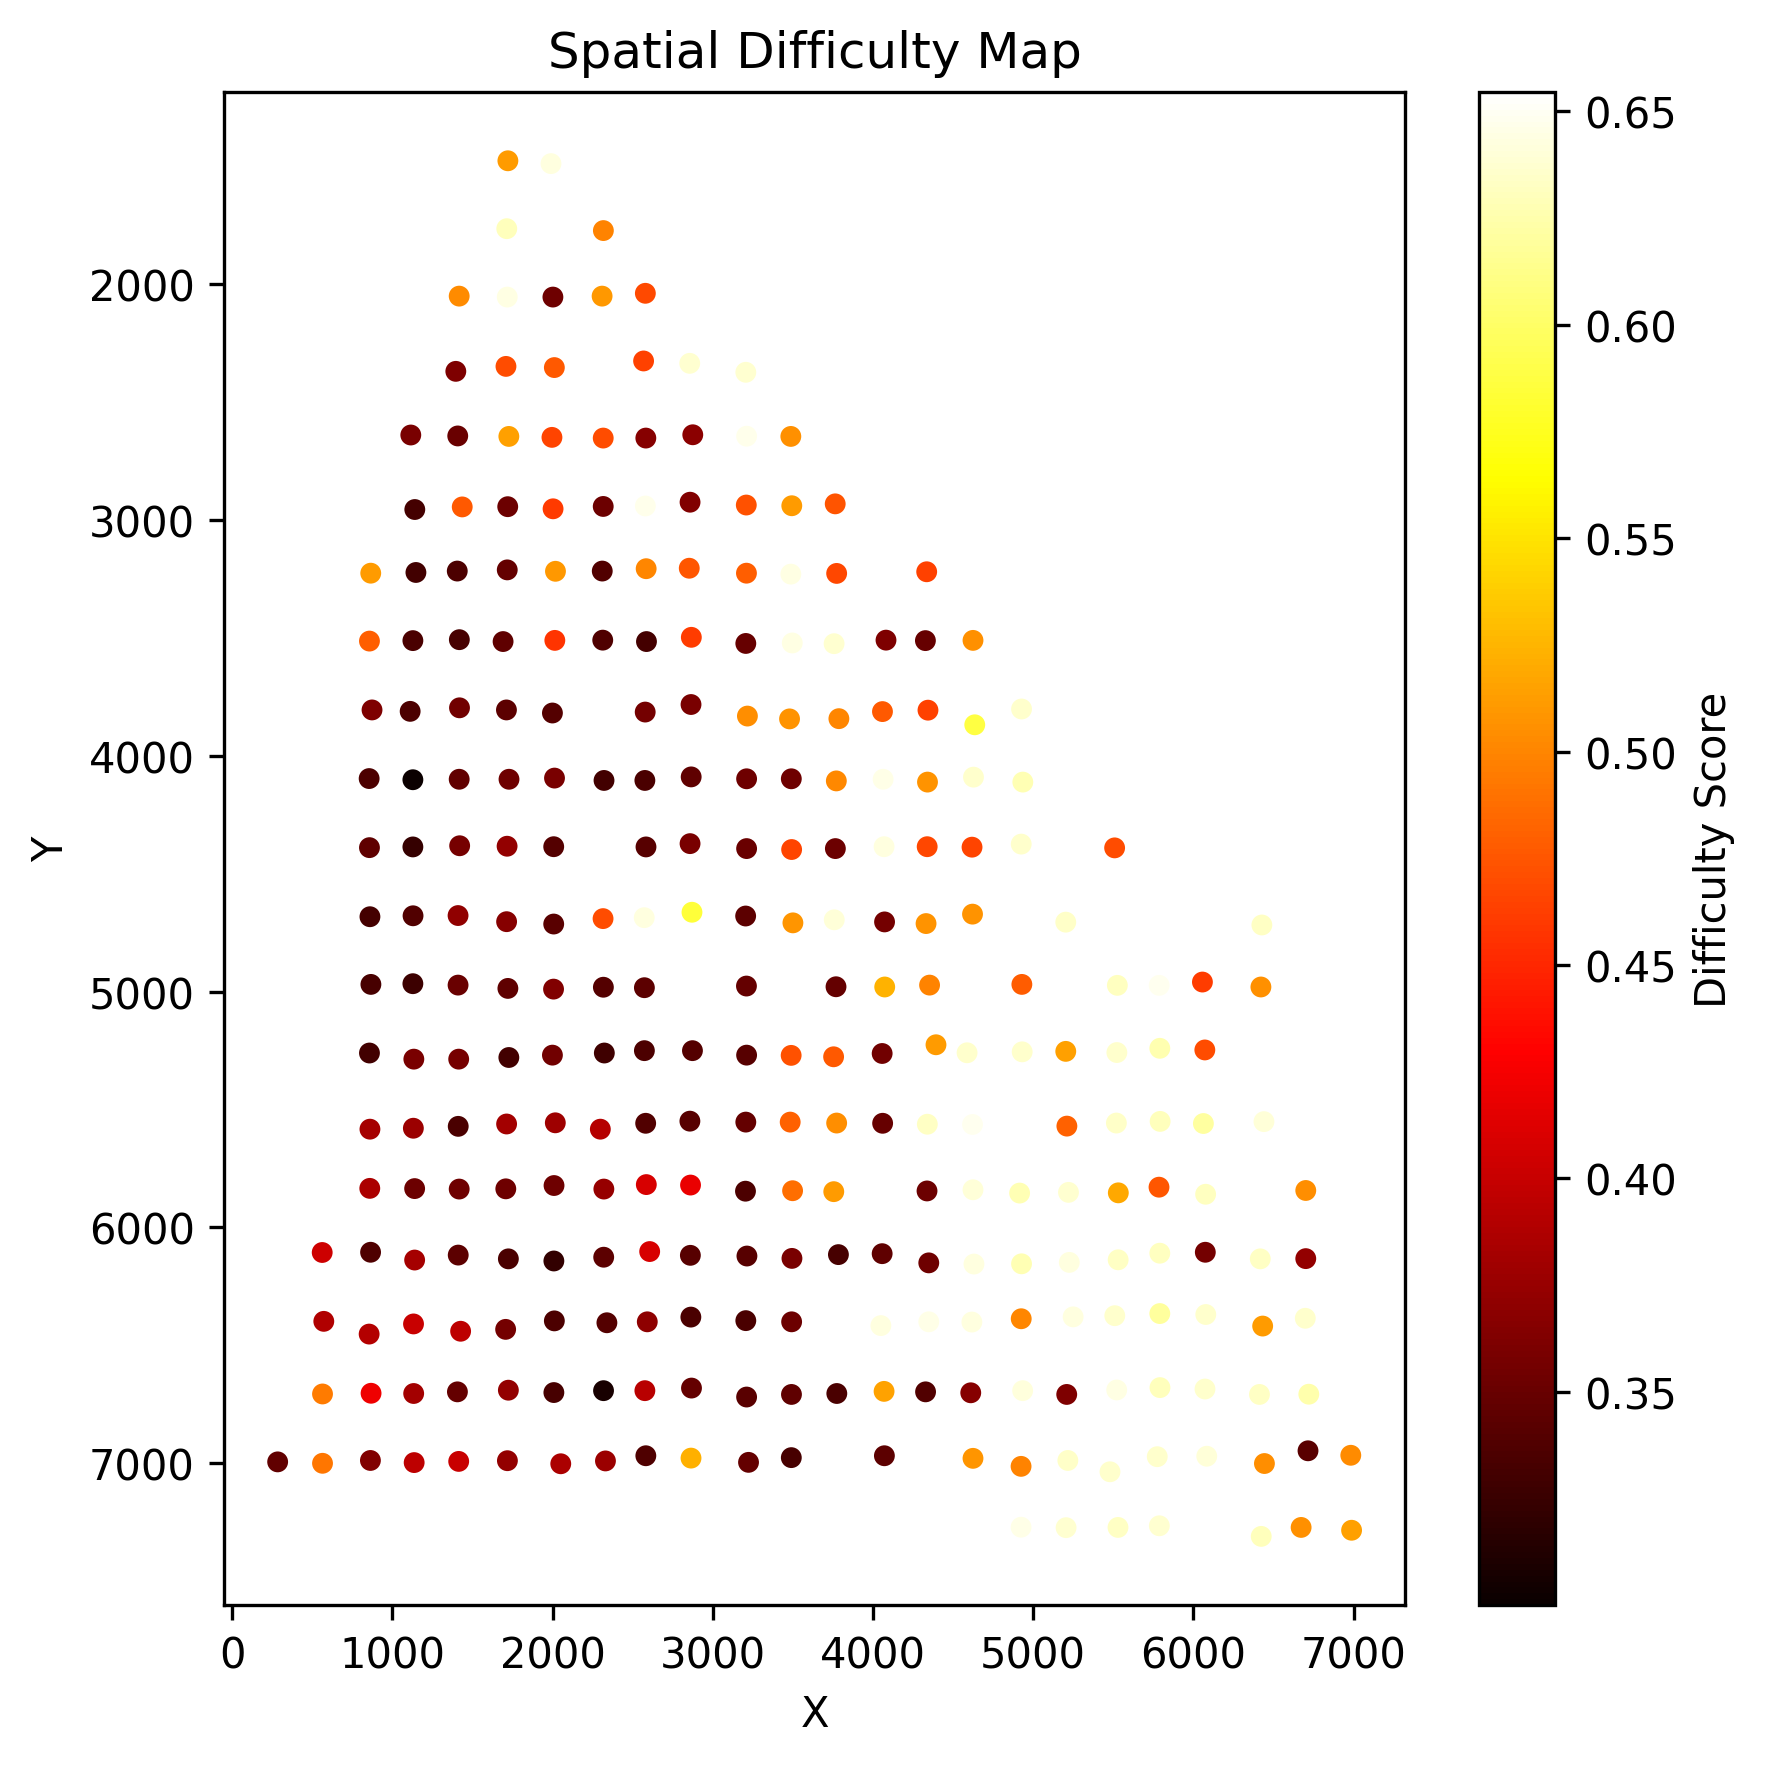
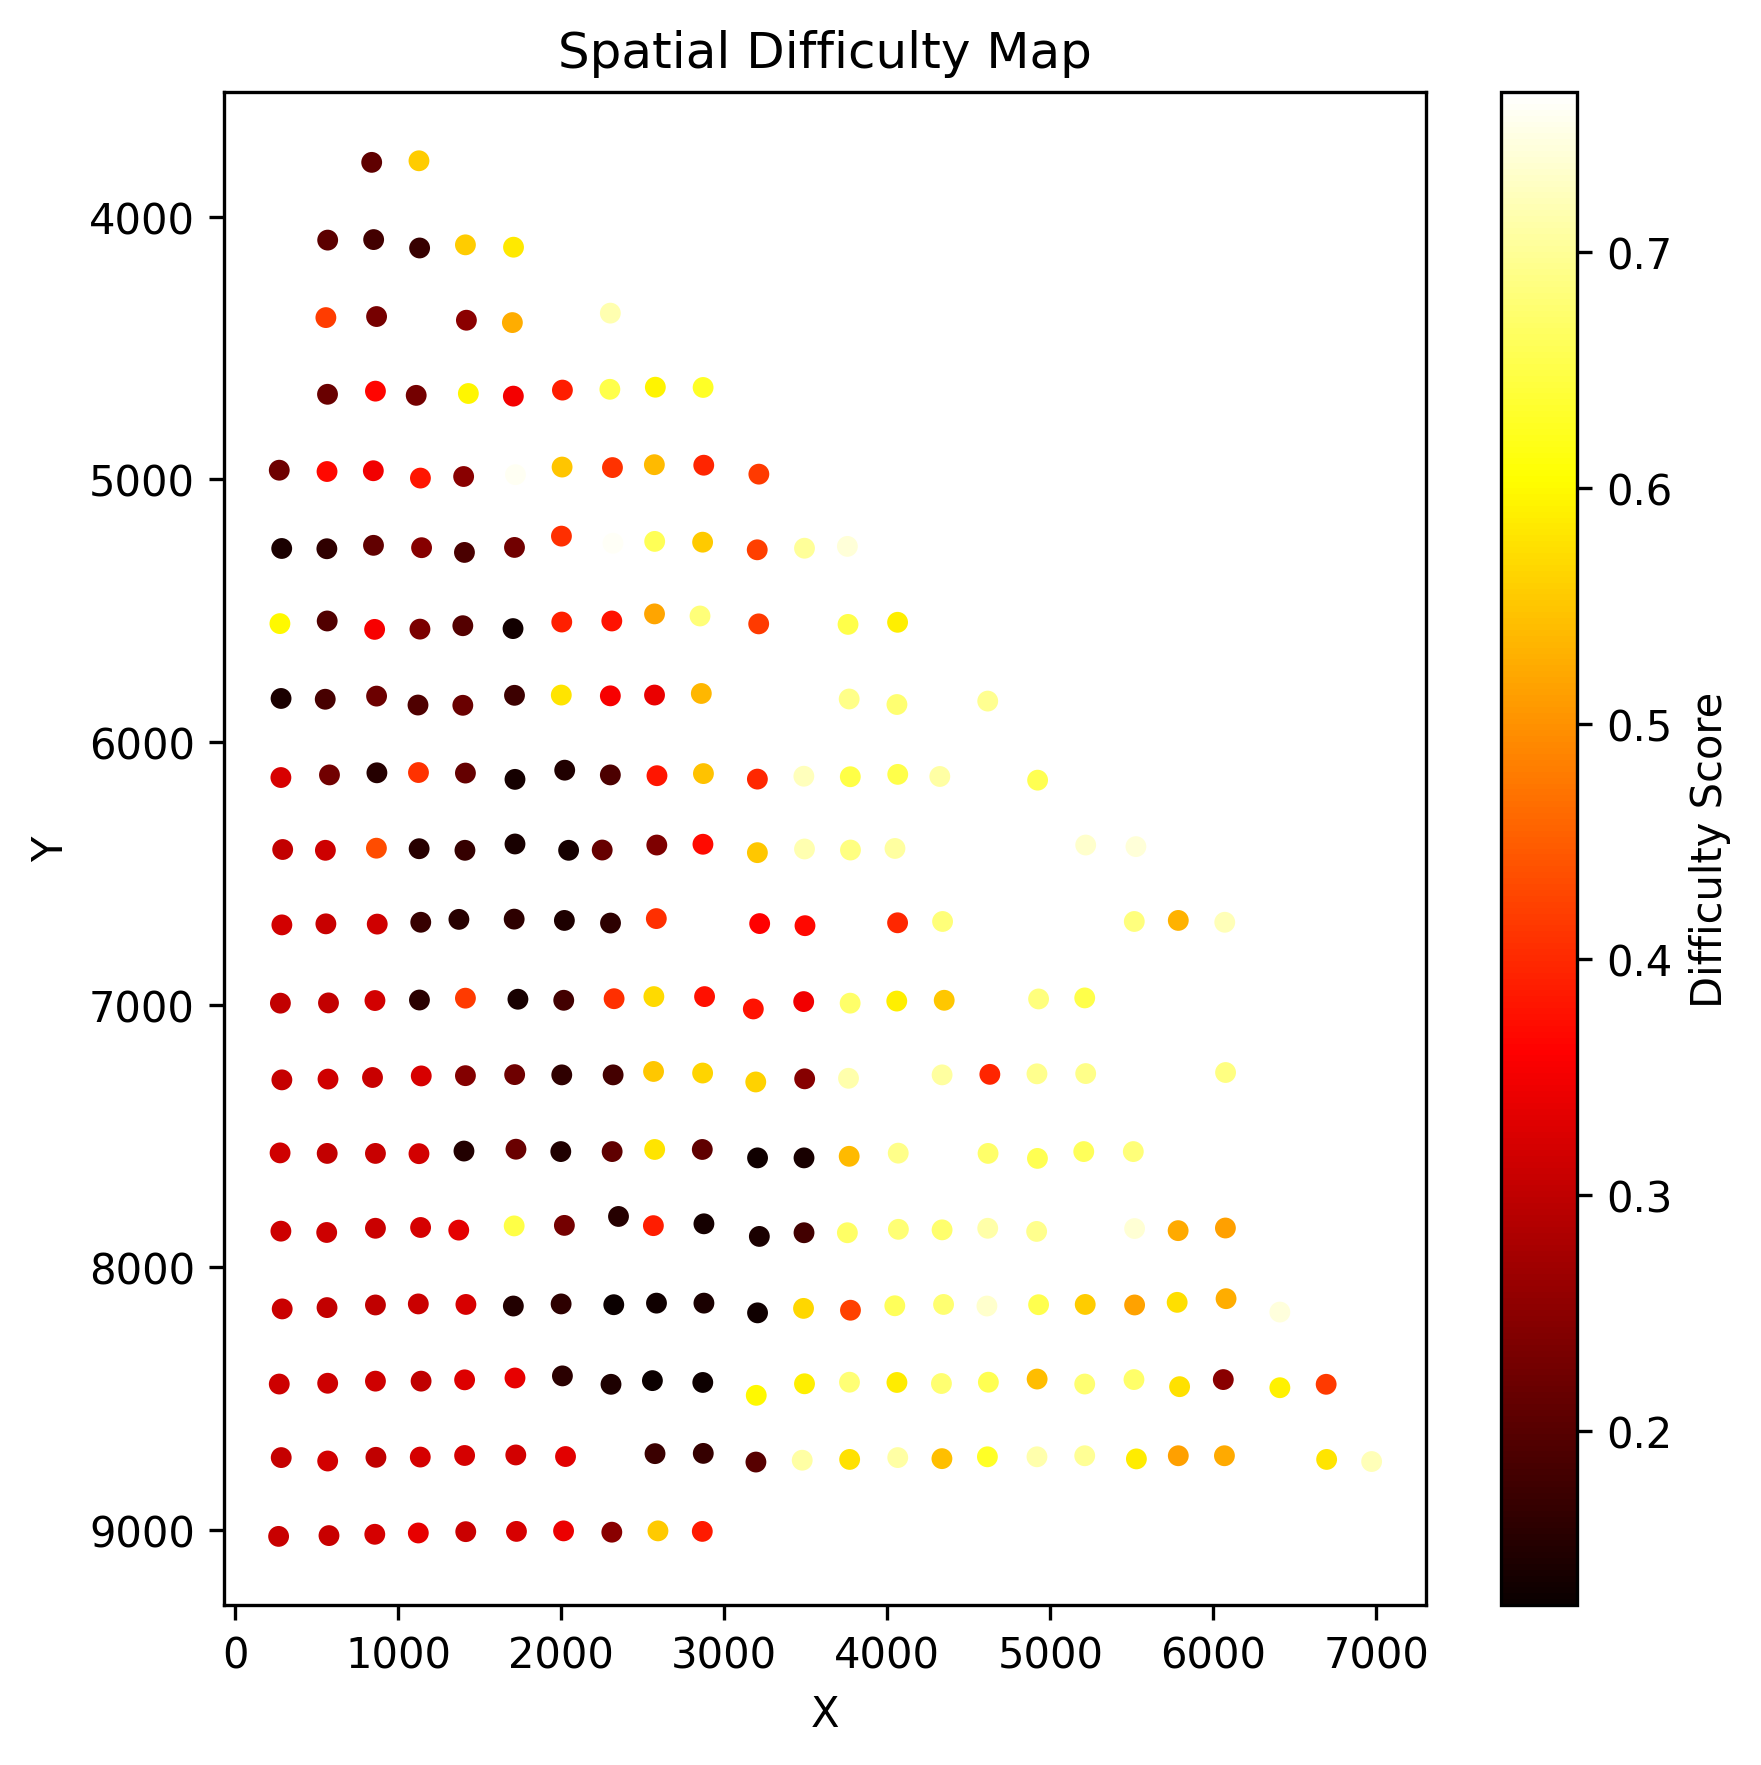
update weight sum difficulty

diff --git a/src/niche.py b/src/niche.py
@@ -1,13 +1,3 @@
-"""Niche / Microenvironment construction and analysis for spatial transcriptomics.
-
-A *niche* is a spatially contiguous group of spots that share similar
-gene expression profiles — a biological microenvironment.
-
-Niche-level operations are the foundation of **biologically-aware
-curriculum learning**, where difficulty is assigned to microenvironments
-rather than individual spots.
-"""
-
 from __future__ import annotations
 
 from typing import Optional, Tuple
@@ -20,7 +10,7 @@ from sklearn.decomposition import PCA
 from scipy.sparse import csr_matrix, diags
 import matplotlib.pyplot as plt
 from matplotlib.colors import Normalize
-
+from scipy.stats import rankdata
 
 @dataclass
 class SpatialDynamicsField:
@@ -32,29 +22,23 @@ class SpatialDynamicsField:
     def N(self) -> int:
         return len(self.difficulty_score)
 
+
+def _rank_norm(x):
+    
+    r = rankdata(x, method="average")
+    return ((r - 1) / max(len(r) - 1, 1)).astype(np.float32)
+
+def _norm(x):
+        lo, hi = x.min(), x.max()
+        return np.zeros_like(x, dtype=np.float32) if hi - lo < 1e-10 else ((x - lo) / (hi - lo)).astype(np.float32)
+    
 def build_spatial_adjacency(
     coords: np.ndarray,
     k: int = 6,
     weight: str = "binary",   # "binary" | "distance" | "gaussian"
     sigma: float = 1.0,
 ) -> csr_matrix:
-    """
-    Build a sparse k-NN adjacency matrix from 2D spot coordinates.
-
-    Parameters
-    ----------
-    coords  : (N, 2) pixel coordinates
-    k       : number of nearest neighbours
-    weight  : edge weighting scheme
-                "binary"   → 1 for all edges
-                "distance" → 1 / (dist + 1e-8)
-                "gaussian" → exp(-dist² / (2σ²))
-    sigma   : bandwidth for gaussian weights (in same units as coords)
-
-    Returns
-    -------
-    A : (N, N) symmetric sparse adjacency matrix
-    """
+    
     N = coords.shape[0]
     nbrs = NearestNeighbors(n_neighbors=k + 1, algorithm="auto").fit(coords)
     distances, indices = nbrs.kneighbors(coords)
@@ -340,16 +324,7 @@ def niche_ambiguity(
     expression: np.ndarray,
     niche_labels: np.ndarray,
 ) -> np.ndarray:
-    """Per-spot ambiguity of niche membership.
-
-    A spot is *ambiguous* when it is nearly as close to a different niche's
-    centroid as it is to its own — i.e. it sits near a niche boundary in
-    expression space.
-
-    Returns
-    -------
-    ambiguity : (N,) array, higher = more ambiguous (harder).
-    """
+    
     K = int(niche_labels.max()) + 1
     centroids = np.zeros((K, expression.shape[1]), dtype=np.float64)
 
@@ -397,31 +372,24 @@ def compute_niche_difficulty(
     topo = niche_topology_difficulty(niche_labels, coords, expression)
     amb_per_spot = niche_ambiguity(expression, niche_labels)
 
-    def _norm(x):
-        lo, hi = x.min(), x.max()
-        return np.zeros_like(x, dtype=np.float32) if hi - lo < 1e-10 else ((x - lo) / (hi - lo)).astype(np.float32)
+    het_n = _rank_norm(het)
+    topo_n = _rank_norm(topo)
 
-    het_n = _norm(het)
-    topo_n = _norm(topo)
-
-    # Niche-level score (for heterogeneity + topology only)
     niche_scores = alpha * het_n + beta * topo_n
-    # broadcast the niche-level part to spots
     spot_scores = np.array([niche_scores[int(lbl)] for lbl in niche_labels], dtype=np.float32)
 
     if use_spot_level_ambiguity:
-        # NEW: add spot-level ambiguity directly, no niche averaging
-        amb_n_spot = _norm(amb_per_spot)
+        amb_n_spot = _rank_norm(amb_per_spot)
         spot_scores = spot_scores + gamma * amb_n_spot
-        # also compute a niche-level mean for reporting/dashboard purposes only
         amb_niche_mean = np.array([amb_per_spot[niche_labels == k].mean() for k in range(K)])
-        niche_scores = niche_scores + gamma * _norm(amb_niche_mean)
+        niche_scores = niche_scores + gamma * _rank_norm(amb_niche_mean)
     else:
         amb = np.array([amb_per_spot[niche_labels == k].mean() for k in range(K)])
-        amb_n = _norm(amb)
+        amb_n = _rank_norm(amb)
         niche_scores = niche_scores + gamma * amb_n
         spot_scores = spot_scores + gamma * amb_n[niche_labels]
 
+    print(f"Check scores: {het_n, topo_n, amb_n_spot}")
     return niche_scores, spot_scores
 
 

diff --git a/src/evaluation.py b/src/evaluation.py
@@ -21,14 +21,6 @@ def component_wise_difficulty_correlation(
     niche_labels: np.ndarray,
     per_spot_error: np.ndarray,
 ) -> Dict[str, Dict[str, float]]:
-    """
-    Correlate each RAW niche-difficulty component (heterogeneity, topology,
-    ambiguity) against actual per-spot prediction error, independently of
-    the composite weighting (alpha/beta/gamma).
-
-    This isolates which component actually carries predictive signal,
-    rather than testing only the final weighted score.
-    """
 
     K = int(niche_labels.max()) + 1
 
@@ -1248,8 +1240,7 @@ if __name__ == "__main__":
 
     field, niche_labels = build_difficulty_field(
         expression=np.nan_to_num(expression, nan=0.0),
-        coords=coords,
-        k_neighbours=cfg.difficulty.k_neighbours,
+        coords=coords
     )
     
     

diff --git a/src/Trainer.py b/src/Trainer.py
@@ -8,6 +8,7 @@ import torch.nn as nn
 from pathlib import Path
 from typing import Optional, Callable, Tuple
 
+from src.niche import niche_difficulty_from_data
 from src.utils import Phase1Results, _seed_everything, move_to_device
 from src.curriculum import (
     train_curriculum, TrainingLog,
@@ -39,8 +40,7 @@ def build_difficulty_repo(
                 "niche_labels": np.ndarray [N_spots],
             }}
     """
-    from .difficulty_gse import topological_difficulty_from_data, niche_difficulty_from_data
-
+    
     repo = {}
 
     print(f"[DifficultyRepo] Computing per-slide difficulty from expression "
